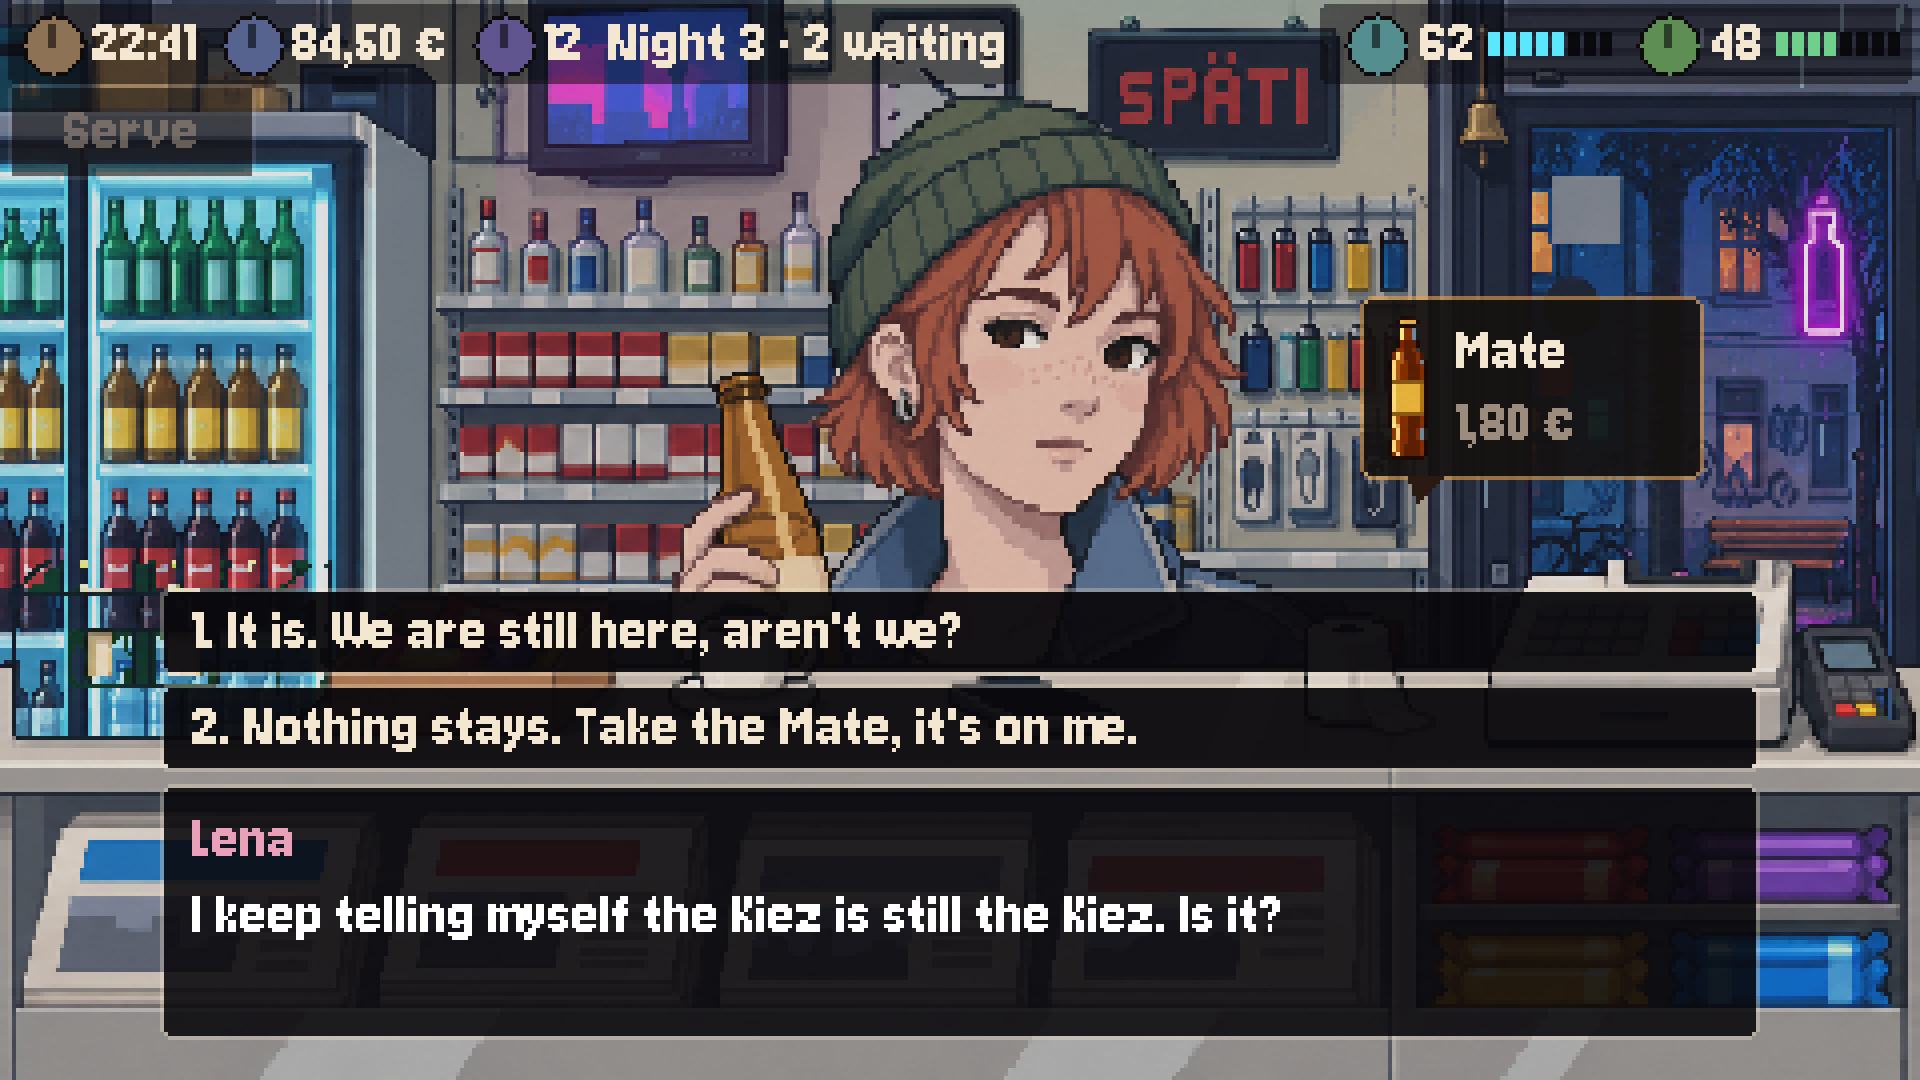
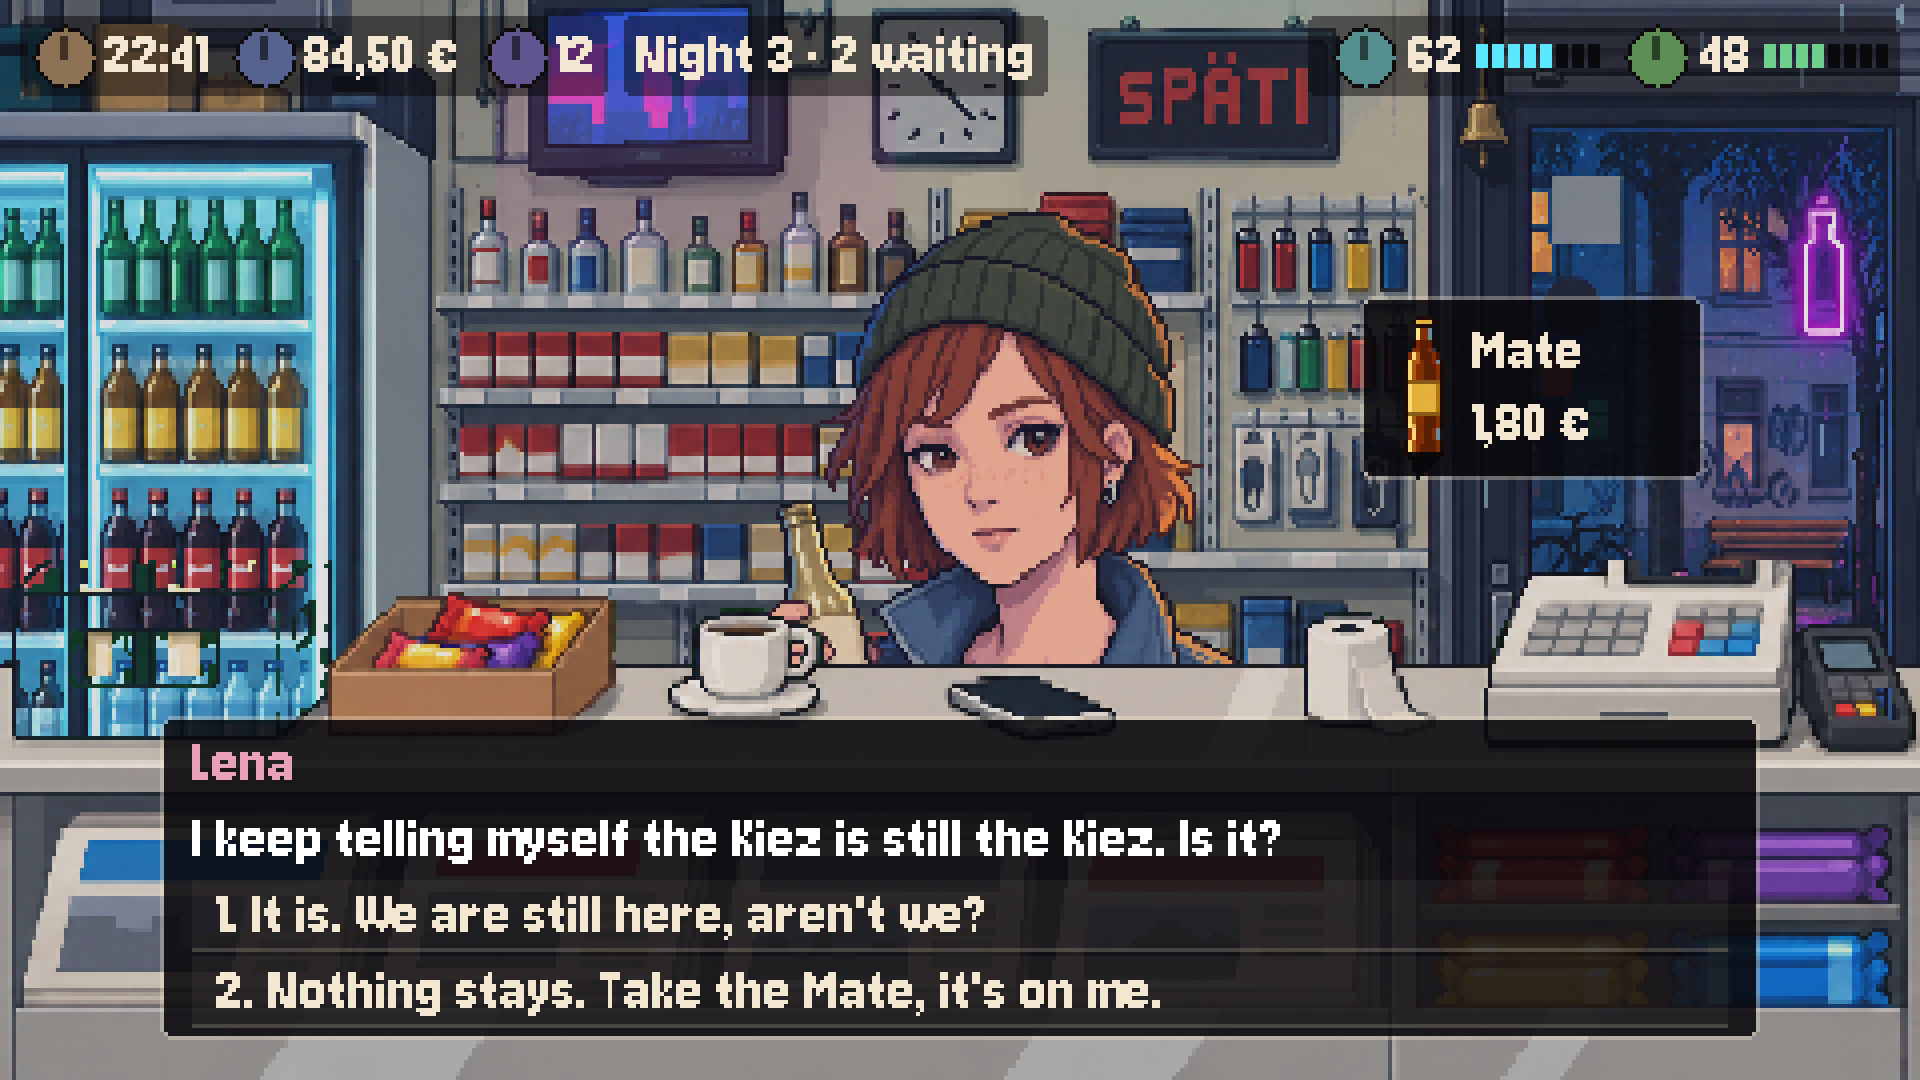
gallery: round-2 frames (bust at target size, panel inside, inset HUD) + order-stage frame

diff --git a/docs/gallery/README.md b/docs/gallery/README.md
@@ -2,7 +2,8 @@
 
 | File | What | Judge |
 |---|---|---|
-| night-dialogue_choice.png | Hero screen: Lena at the counter of the real-Späti set (backdrop r5, counter r6), two choices open | astra pending (`judge/final-dialogue_choice.json`) |
+| night-dialogue_choice.png | Hero screen: Lena at the counter of the real-Späti set (backdrop r5, counter r6), the two choices inside the dialogue panel, bust at the target size (144×174) | 71 → 74 after round 1 (choices inside the panel, three HUD plates); round 2 (bust size, 75-px panel, inset HUD) judging |
+| night-customer_at_counter.png | Order stage: Lena asks for a Mate (bubble), Serve toggle and Next guest on offer, no conversation open | — |
 | night-talk_result.png | After a Schnauze check: d20 14 + 2 = 16 vs 12 → success; Lena switches to her WARM expression (the per-node expression drives the Portrait); the queue shows Jürgen next | — |
 | night-queue_waiting.png | The line: three guests waiting, stats strip (Muscle…Schnauze), Next guest | — |
 | play-queue.png / play-talk-choice.png | Real playthrough frames (scripted driver on the live engine) | — |
